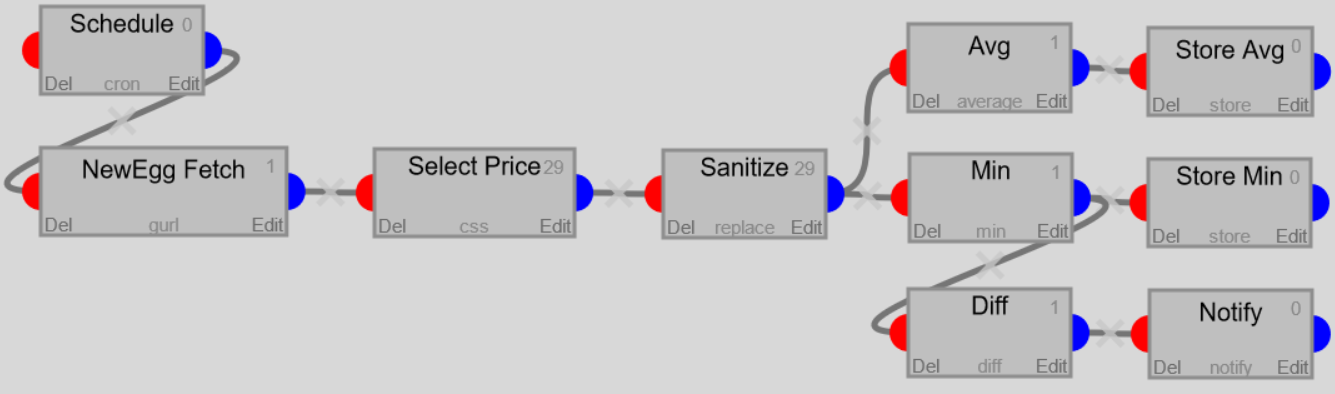
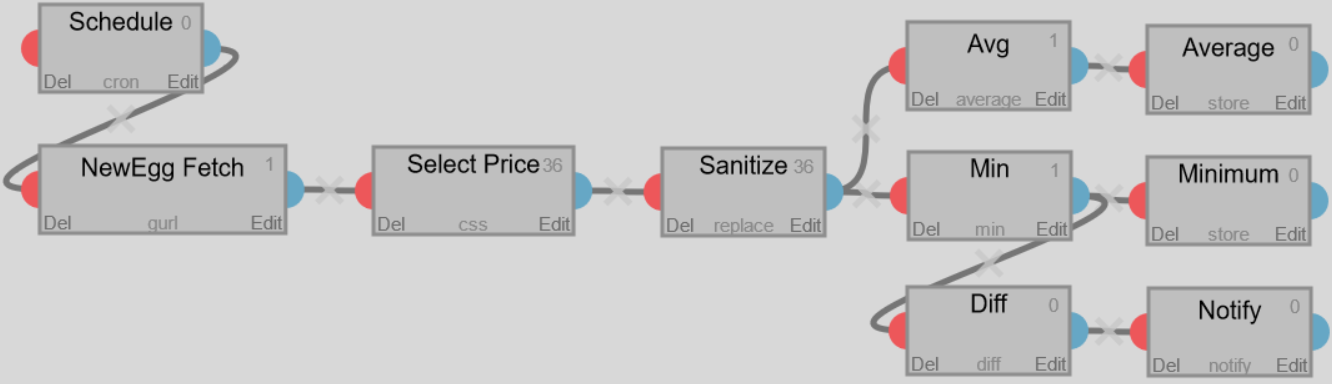
updated readme intro

diff --git a/README.md b/README.md
@@ -23,11 +23,11 @@ An [XPath](#xpath) filter could also have been used.
 
 `Min` is a [Minimum](#minimum) filter, it calculates the minimum value of its inputs.  
 
-`Store Avg` and `Store Min` are [Store](#store) filters, they store its input values in the database.  
+`Average` and `Minimum` are [Store](#store) filters, they store its input values in the database.  
 
 `Diff` is a [Different Than Last](#different-then-last) filter, only passing on the inputs that are different then the last value stored in the database.  
 
-`Notify` is a [Notify](#notify) filter, if there are any inputs to this filter, it will execute a template and send the result to a user defined 'notifier' (Telegram/Discord/Matrix/etc).
+`Notify` is a [Notify](#notify) filter, if there are any inputs to this filter, it will execute a template and send the result to a user defined 'notifier' (Telegram/Discord/etc).
 # Run
 
 ## Docker

diff --git a/todo.md b/todo.md
@@ -19,7 +19,5 @@
 - debug notify to Results?
 - add test for regex replace with group
 - run/fix staticcheck
-- replace readme image
-    - better store filter names
 - reorder filters?
 - add browserless support ?
